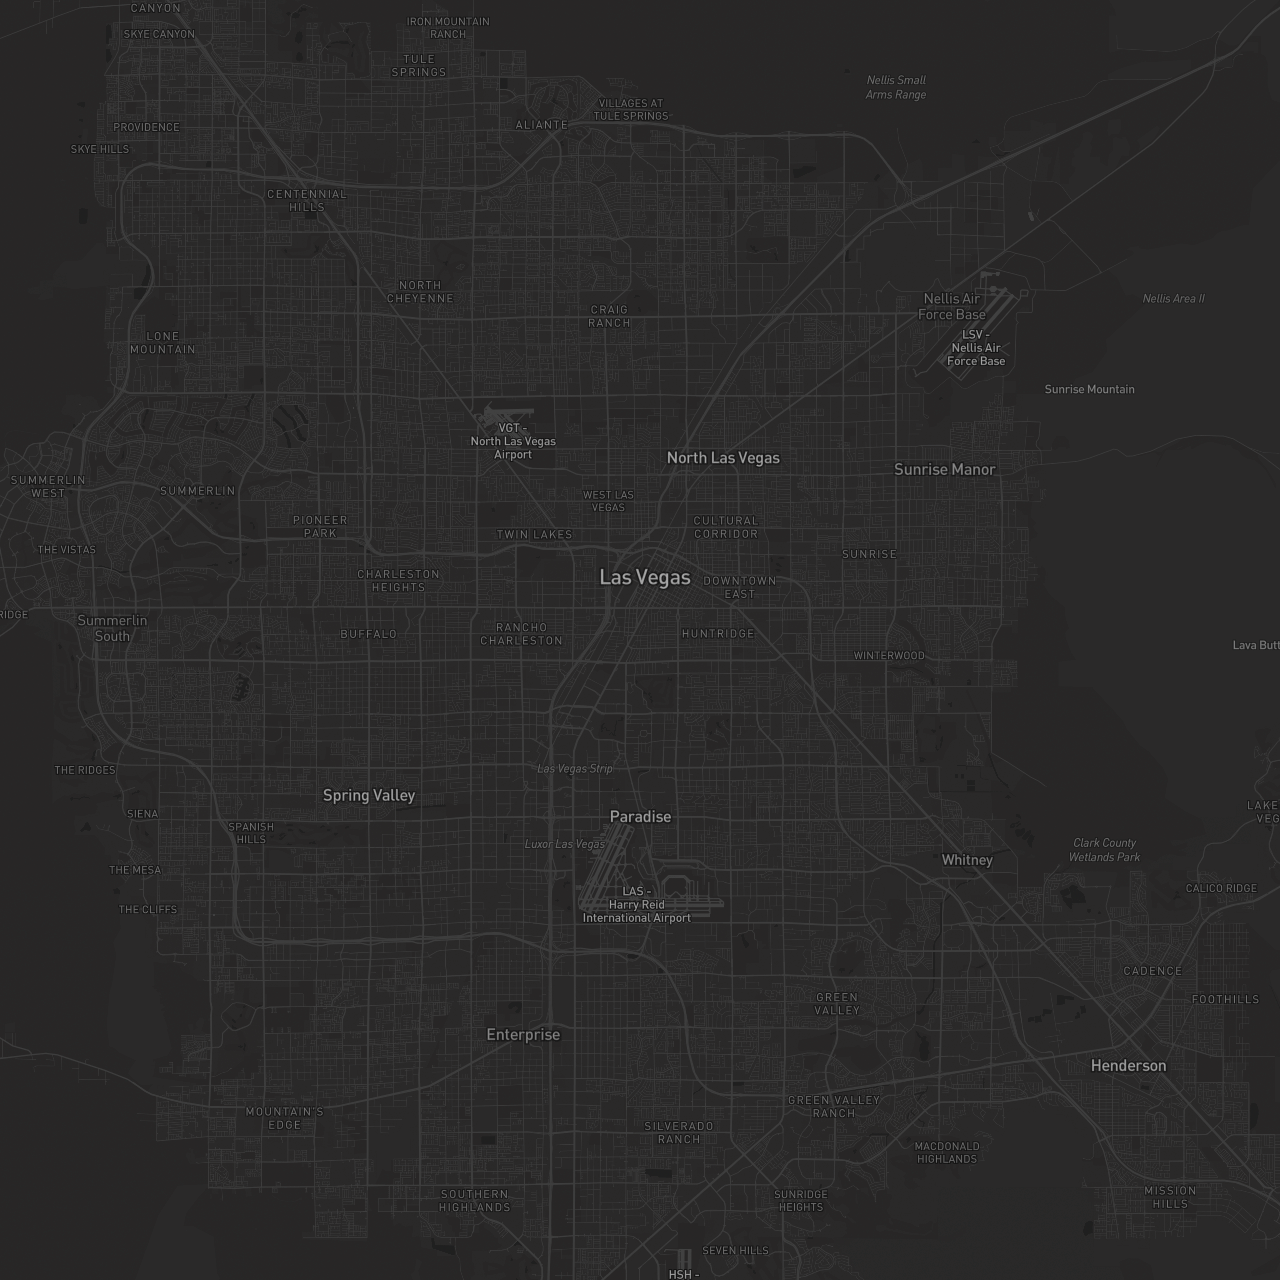
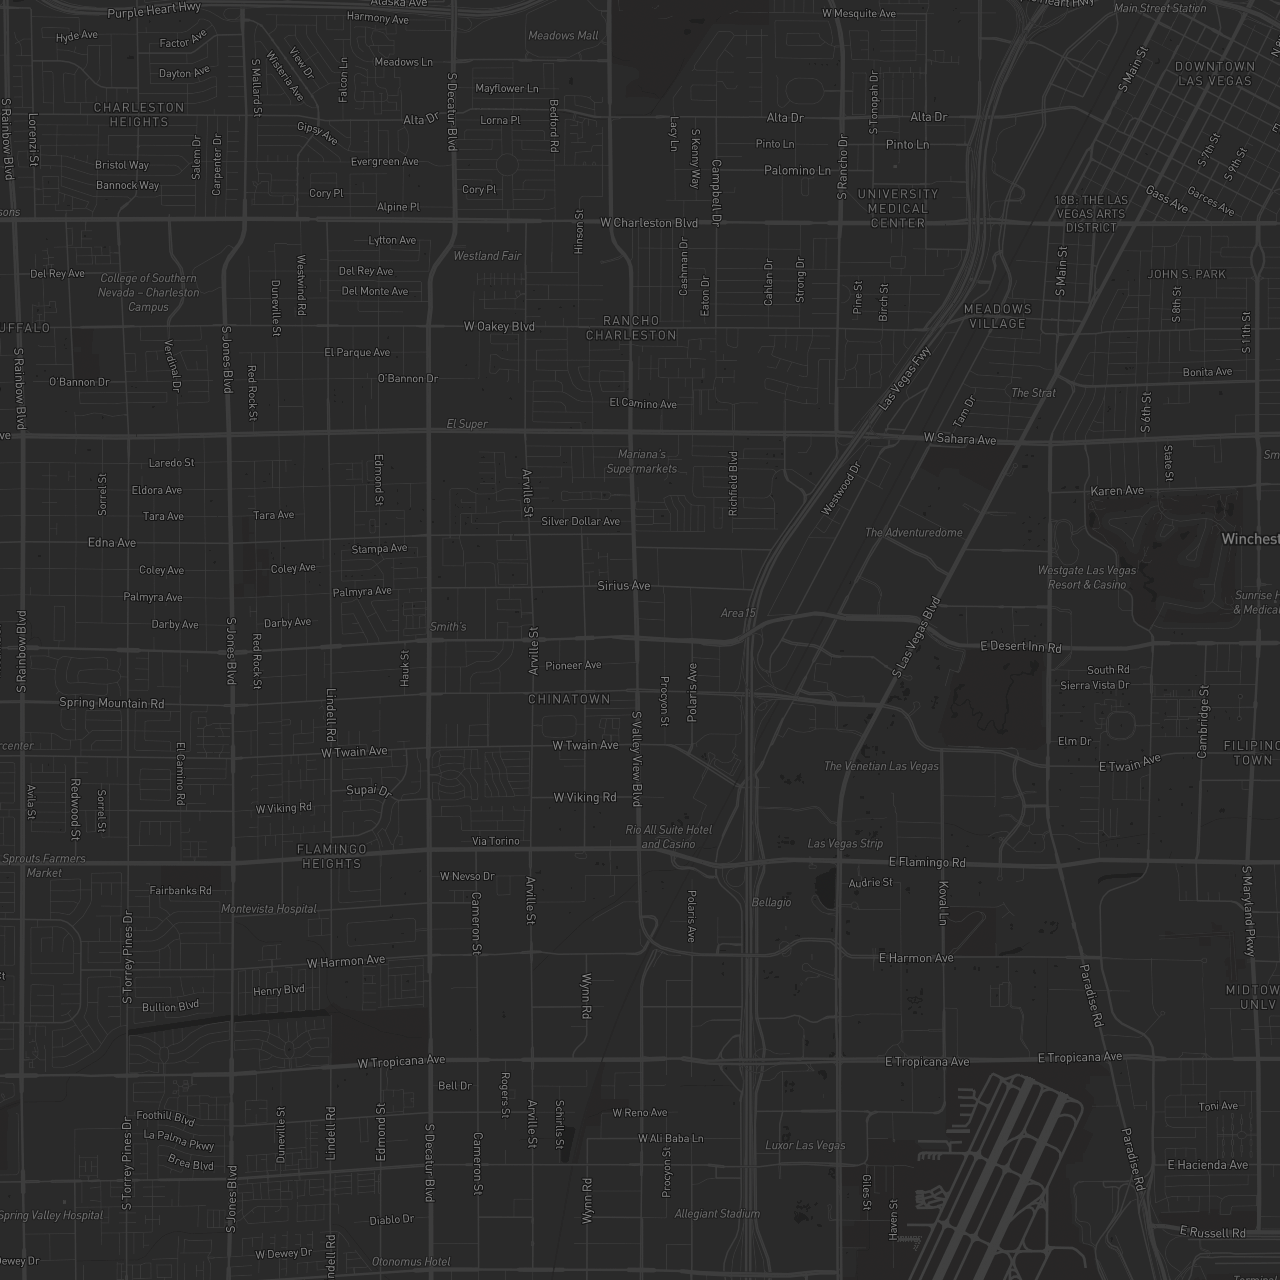
Recenter map background on LVCC with closer zoom levels
Replace map images with LVCC-centered versions (shifted west so
the convention center area sits right of center). Zoom range now
covers z11-z14 (was z9-z12) for closer street detail. Default
zoom set to City level showing Las Vegas text, street grid, the
Strip, and Allegiant Stadium.

diff --git a/apps/run.auth/webapp/src/components/map-background.tsx b/apps/run.auth/webapp/src/components/map-background.tsx
@@ -26,7 +26,7 @@ type BgPrefs = {
 };
 
 const DEFAULT_PREFS: BgPrefs = {
-  zoom: 11,
+  zoom: 10,
   opacity: 15,
   parallax: true,
 };

diff --git a/apps/run.human/webapp/src/components/map-background.tsx b/apps/run.human/webapp/src/components/map-background.tsx
@@ -26,7 +26,7 @@ type BgPrefs = {
 };
 
 const DEFAULT_PREFS: BgPrefs = {
-  zoom: 11,
+  zoom: 10,
   opacity: 15,
   parallax: true,
 };
